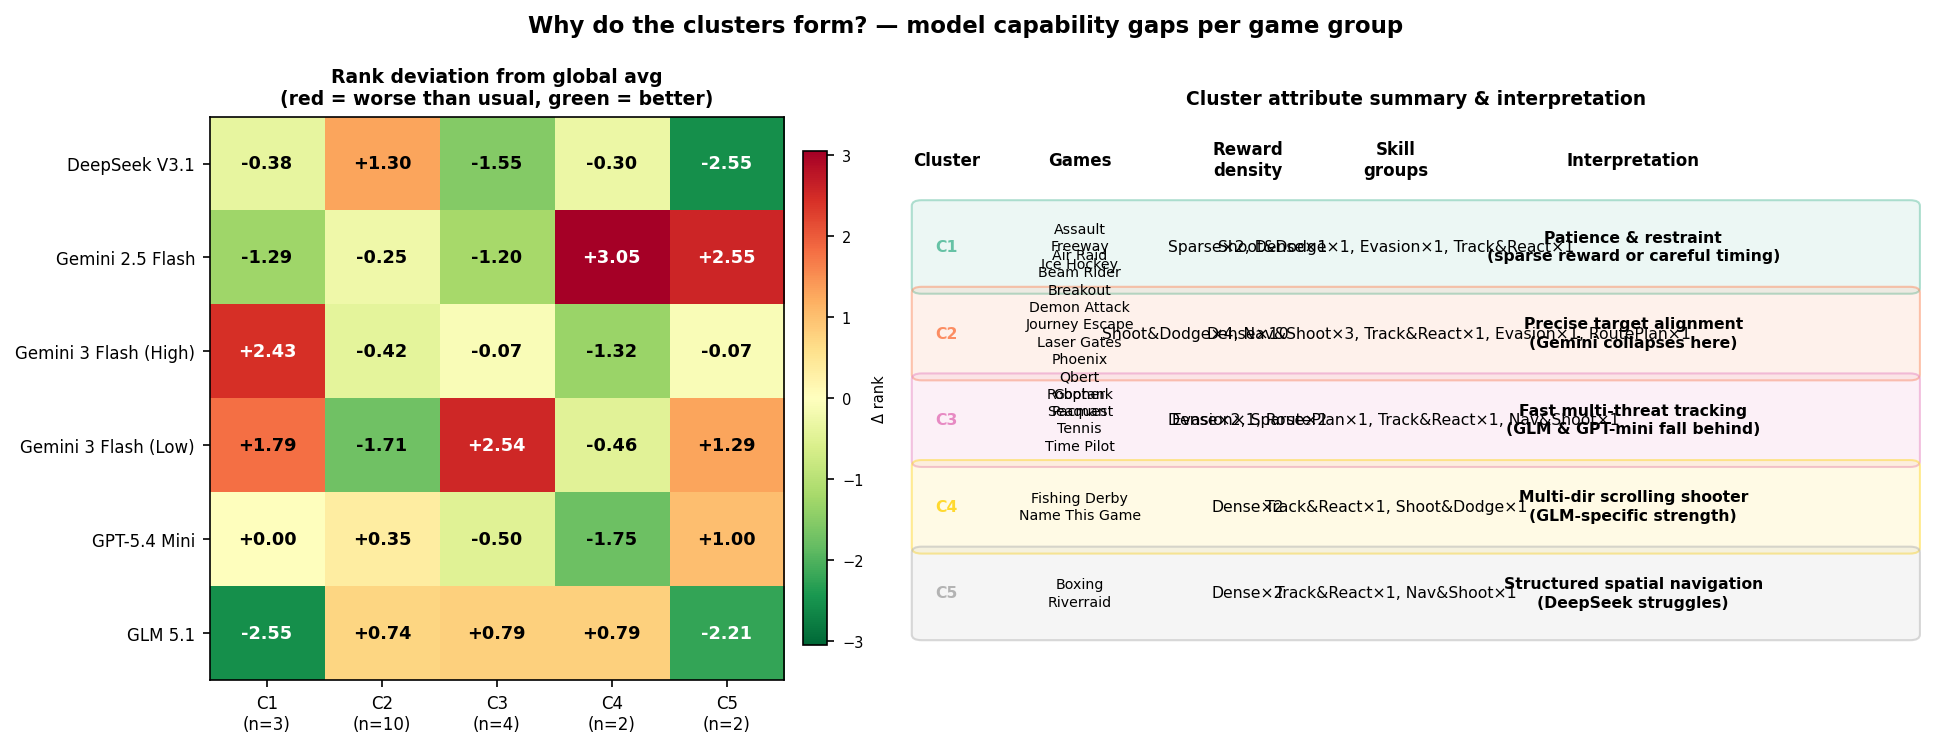
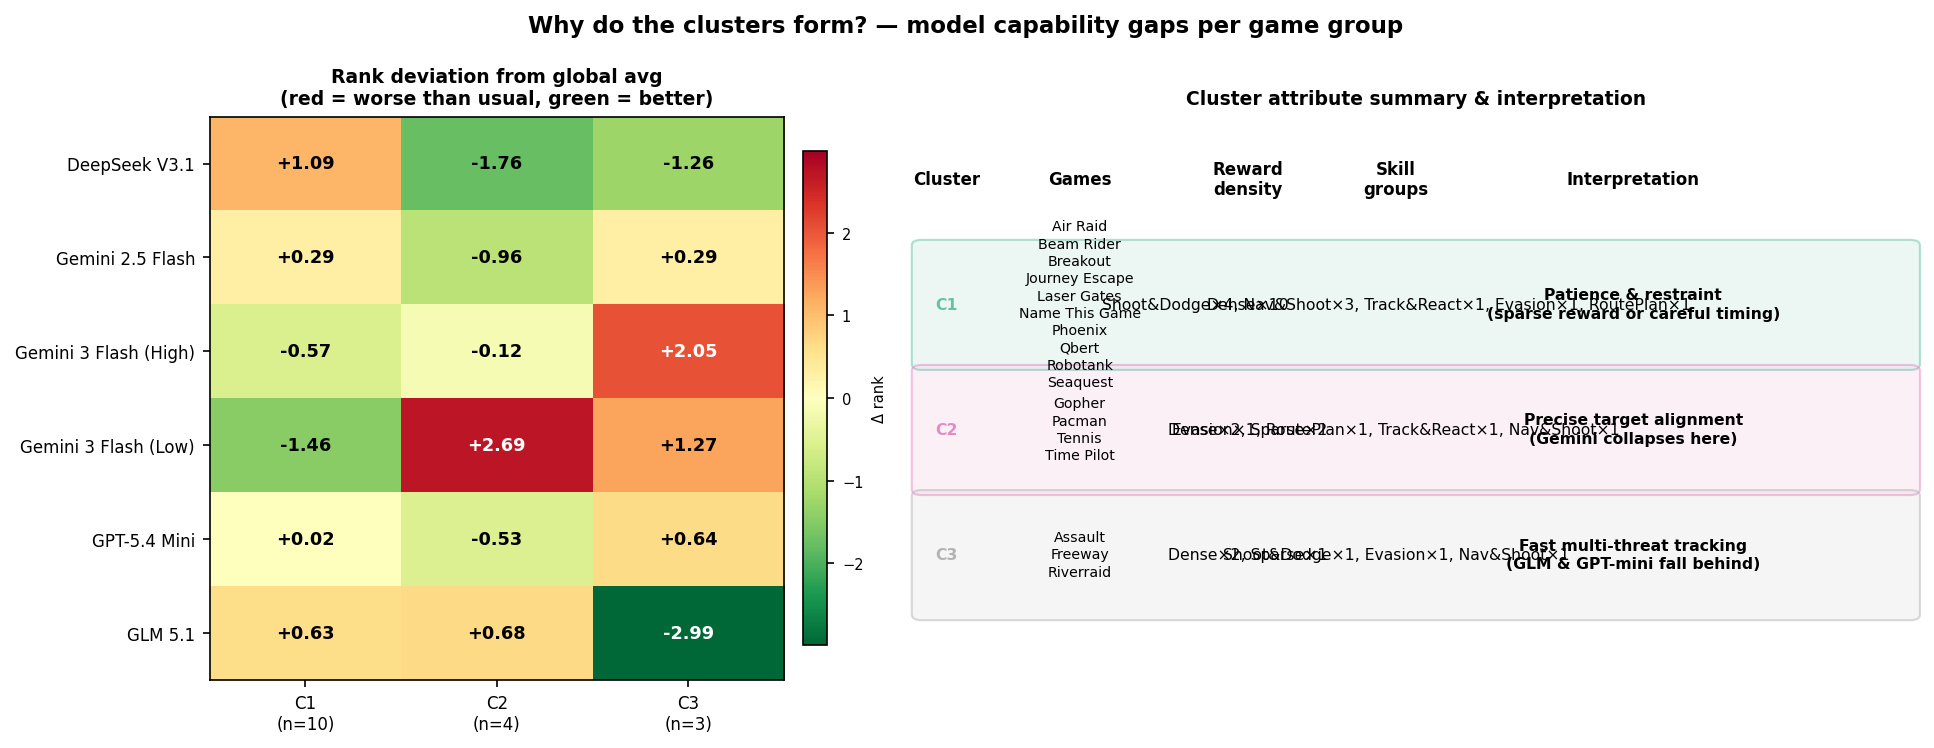
result

diff --git a/paper/correlation/plot_game_clusters.py b/paper/correlation/plot_game_clusters.py
@@ -98,6 +98,7 @@ def make_row_key(entry):
 
 
 SNR_THRESHOLD = 1.0  # keep games where (best-worst gap) / pooled_stderr >= this
+EXCLUDE_GAMES = {"boxing", "ice_hockey", "demon_attack", "fishing_derby"}
 
 # ── data loading — collect avg + stderr per (model, game) ────────────────────
 entries_data = {}  # (rk, game) -> (avg, stderr, run_count)
@@ -167,7 +168,7 @@ p0s = ROOT / "paper" / "correlation" / "plot_clusters_separability.png"
 plt.savefig(p0s, dpi=150, bbox_inches="tight"); print(f"Saved to {p0s}"); plt.close()
 
 # filter to separable games
-all_games = [g for g in all_games if game_snr[g] >= SNR_THRESHOLD]
+all_games = [g for g in all_games if game_snr[g] >= SNR_THRESHOLD and g not in EXCLUDE_GAMES]
 n_games   = len(all_games)
 game_labels = [g.replace("_", " ").title() for g in all_games]
 print(f"Kept {n_games}/21 games (SNR >= {SNR_THRESHOLD}):")
